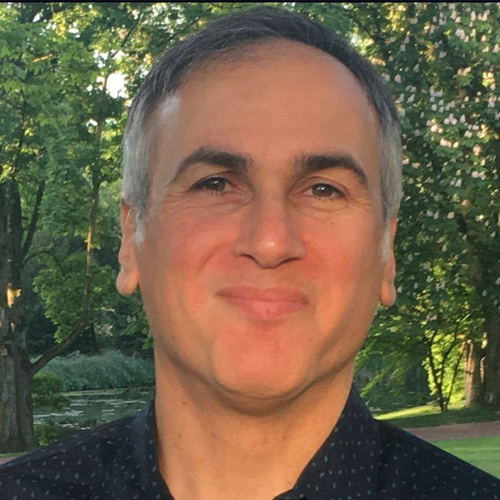
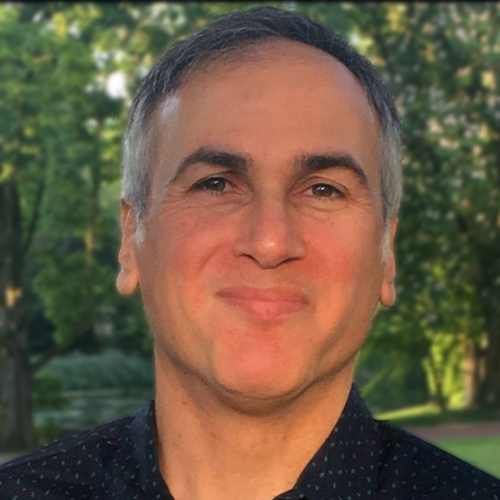
Updated the nav menu, minimized the services carousel, added Fernando to team, small copy changes

diff --git a/index.html b/index.html
@@ -36,7 +36,6 @@
           <li class="current"><a href="#intro">Home</a></li>
           <li><a href="#about">Why</a></li>
           <li><a href="#services">Service</a></li>
-          <li><a href="#portfolio">Works</a></li>
           <li><a href="#team">Team</a></li>
           <li><a href="#contact">Contact</a></li>
         </ul>
@@ -167,46 +166,14 @@
                 <div class="row">
                   <div class="col-sm-12 col-md-offset-1 col-md-6">
                     <div class="wow bounceInLeft">
-                      <h4>Corporate</h4>
+                      <h4>Corporate or individual</h4>
                       <p>Lorem ipsum dolor sit amet, consectetur adipisicing elit, sed do eiusmod tempor incididunt ut
                         labore et dolore magna.</p>
                     </div>
                   </div>
                   <div class="col-sm-12 col-md-5">
                     <div class="screenshot wow bounceInRight">
-                      <img src="img/screenshots/1.png" class="img-responsive" alt="" />
-                    </div>
-                  </div>
-                </div>
-              </div>
-              <div class="item">
-                <div class="row">
-                  <div class="col-sm-12 col-md-offset-1 col-md-6">
-                    <div class="wow bounceInLeft">
-                      <h4>User</h4>
-                      <p>Lorem ipsum dolor sit amet, consectetur adipisicing elit, sed do eiusmod tempor incididunt ut
-                        labore et dolore magna.</p>
-                    </div>
-                  </div>
-                  <div class="col-sm-12 col-md-5">
-                    <div class="screenshot wow bounceInRight">
-                      <img src="img/screenshots/2.png" class="img-responsive" alt="" />
-                    </div>
-                  </div>
-                </div>
-              </div>
-              <div class="item">
-                <div class="row">
-                  <div class="col-sm-12 col-md-offset-1 col-md-6">
-                    <div class="wow bounceInLeft">
-                      <h4>Web & Mobile Apps</h4>
-                      <p>Lorem ipsum dolor sit amet, consectetur adipisicing elit, sed do eiusmod tempor incididunt ut
-                        labore et dolore magna.</p>
-                    </div>
-                  </div>
-                  <div class="col-sm-12 col-md-5">
-                    <div class="screenshot wow bounceInRight">
-                      <img src="img/screenshots/3.png" class="img-responsive" alt="" />
+                      <img src="img/screenshots/services-image.png" class="img-responsive" alt="" />
                     </div>
                   </div>
                 </div>
@@ -216,8 +183,6 @@
             <!-- Indicators -->
             <ol class="carousel-indicators">
               <li data-target="#carousel-service" data-slide-to="0" class="active"></li>
-              <li data-target="#carousel-service" data-slide-to="1"></li>
-              <li data-target="#carousel-service" data-slide-to="2"></li>
             </ol>
           </div>
         </div>
@@ -231,10 +196,10 @@
       <div class="row">
         <div class="col-md-12">
           <ul class="clients">
-            <li class="wow fadeInDown" data-wow-delay="0.3s"><a href="#"><img src="img/clients/1.png" alt="" /></a></li>
-            <li class="wow fadeInDown" data-wow-delay="0.6s"><a href="#"><img src="img/clients/2.png" alt="" /></a></li>
-            <li class="wow fadeInDown" data-wow-delay="0.9s"><a href="#"><img src="img/clients/3.png" alt="" /></a></li>
-            <li class="wow fadeInDown" data-wow-delay="1.1s"><a href="#"><img src="img/clients/4.png" alt="" /></a></li>
+            <li class="wow fadeInDown" data-wow-delay="0.3s"><a href="#"><img src="" alt="" /></a></li>
+            <li class="wow fadeInDown" data-wow-delay="0.6s"><a href="#"><img src="" alt="" /></a></li>
+            <li class="wow fadeInDown" data-wow-delay="0.9s"><a href="#"><img src="" alt="" /></a></li>
+            <li class="wow fadeInDown" data-wow-delay="1.1s"><a href="#"><img src="" alt="" /></a></li>
           </ul>
         </div>
       </div>
